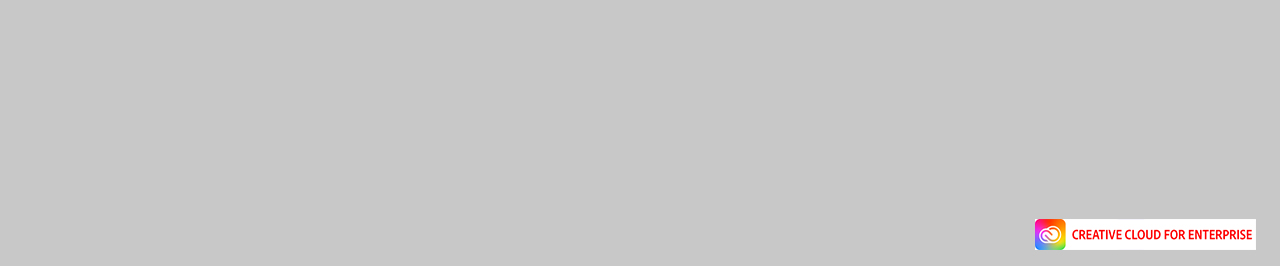
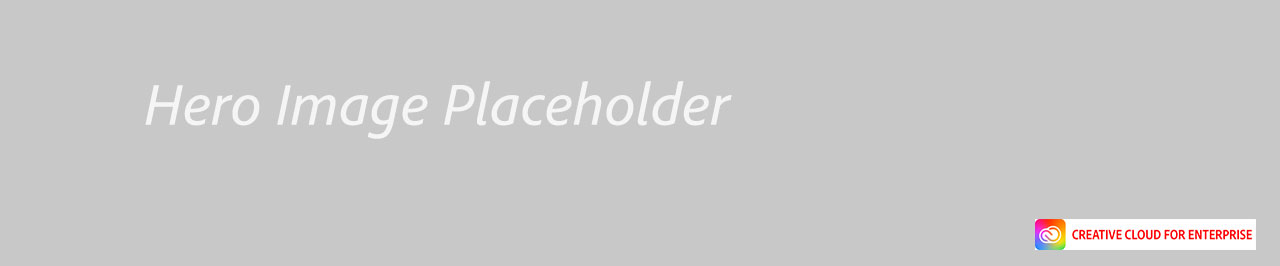
Updated images

Changed region(s): [[0.0938, 0.3008, 0.5938, 0.5414], [0.8438, 0.8421, 0.9375, 0.9023]]

diff --git a/help/max2020/desktopoverview.md b/help/max2020/desktopoverview.md
@@ -15,7 +15,7 @@ As an enterprise creative, you need to collaborate with distributed teams, estab
 <tr>
  <td>
     <a href="acrobat-sign.md">
-      <img alt="Acrobat & Adobe Sign" src="../assets//Whitespacer.png" />
+      <img alt="Acrobat & Adobe Sign" src="../assets//table_placeholder.png" />
     </a>
     <div>
     <a href="acrobat-sign.md"><strong>Acrobat & Adobe Sign</strong></a>
@@ -24,7 +24,7 @@ As an enterprise creative, you need to collaborate with distributed teams, estab
   </td>
   <td>
     <a href="dimension.md">
-      <img alt="Dimension" src="../assets//Whitespacer.png" />
+      <img alt="Dimension" src="../assets//table_placeholder.png" />
     </a>
     <div>
     <a href="dimension.md"><strong>Dimension</strong></a>
@@ -33,7 +33,7 @@ As an enterprise creative, you need to collaborate with distributed teams, estab
   </td>
   <td>
     <a href="illustrator.md">
-      <img alt="Illustrator" src="../assets/Whitespacer.png" />
+      <img alt="Illustrator" src="../assets/table_placeholder.png" />
     </a>
     <div>
     <a href="illustrator.md"><strong>Illustrator</strong></a>
@@ -44,7 +44,7 @@ As an enterprise creative, you need to collaborate with distributed teams, estab
 <tr>
  <td>
     <a href="indesign.md">
-      <img alt="InDesign" src="../assets/Whitespacer.png" />
+      <img alt="InDesign" src="../assets/table_placeholder.png" />
     </a>
     <div>
     <a href="indesign.md"><strong>InDesign</strong></a>
@@ -53,7 +53,7 @@ As an enterprise creative, you need to collaborate with distributed teams, estab
   </td>
   <td>
     <a href="photoshop.md">
-      <img alt="Photoshop" src="../assets/Whitespacer.png" />
+      <img alt="Photoshop" src="../assets/table_placeholder.png" />
     </a>
     <div>
     <a href="photoshop.md"><strong>Photoshop</strong></a>
@@ -62,7 +62,7 @@ As an enterprise creative, you need to collaborate with distributed teams, estab
   </td>
   <td>
     <a href="rush.md">
-      <img alt="Rush" src="../assets/Whitespacer.png" />
+      <img alt="Rush" src="../assets/table_placeholder.png" />
     </a>
     <div>
     <a href="rush.md"><strong>Rush</strong></a>
@@ -73,7 +73,7 @@ As an enterprise creative, you need to collaborate with distributed teams, estab
 <tr>
  <td>
     <a href="xd.md">
-      <img alt="XD" src="../assets/Whitespacer.png" />
+      <img alt="XD" src="../assets/table_placeholder.png" />
     </a>
     <div>
     <a href="xd.md"><strong>XD</strong></a>
@@ -81,12 +81,12 @@ As an enterprise creative, you need to collaborate with distributed teams, estab
     <br>
   </td>
   <td>
-    <img alt="Spacer" src="../assets/Whitespacer.png" />
+    <img alt="Spacer" src="../assets/table_placeholder.png" />
     <div>
     <br>
   </td>
   <td>
-    <img alt="Spacer" src="../assets/Whitespacer.png" />
+    <img alt="Spacer" src="../assets/table_placeholder.png" />
     <div>
     <br>
   </td>

diff --git a/help/max2020/integrations-overview.md b/help/max2020/integrations-overview.md
@@ -11,7 +11,7 @@ description: A listing of Integration tutorials.
 <tr>
  <td>
     <a href="aem.md">
-      <img alt="AEM Assets & Asset Link" src="../assets/Whitespacer.png" />
+      <img alt="AEM Assets & Asset Link" src="../assets/table_placeholder.png" />
     </a>
     <div>
     <a href="aem.md"><strong>AEM Assets & Asset Link</strong></a>
@@ -20,7 +20,7 @@ description: A listing of Integration tutorials.
   </td>
   <td>
     <a href="cclibraries.md">
-      <img alt="CC Libraries" src="../assets/Whitespacer.png" />
+      <img alt="CC Libraries" src="../assets/table_placeholder.png" />
     </a>
     <div>
     <a href="cclibraries.md"><strong>CC Libraries</strong></a>
@@ -29,7 +29,7 @@ description: A listing of Integration tutorials.
   </td>
   <td>
     <a href="indesignserver.md">
-      <img alt="InDesign Server" src="../assets/Whitespacer.png" />
+      <img alt="InDesign Server" src="../assets/table_placeholder.png" />
     </a>
     <div>
     <a href="indesignserver.md"><strong>InDesign Server</strong></a>
@@ -40,7 +40,7 @@ description: A listing of Integration tutorials.
 <tr>
   <td>
     <a href="stock.md">
-      <img alt="Adobe Stock" src="../assets/Whitespacer.png" />
+      <img alt="Adobe Stock" src="../assets/table_placeholder.png" />
     </a>
     <div>
     <a href="stock.md"><strong>Adobe Stock</strong></a>
@@ -48,12 +48,12 @@ description: A listing of Integration tutorials.
     <br>
   </td>
   <td>
-    <img alt="Spacer" src="../assets/Whitespacer.png" />
+    <img alt="Spacer" src="../assets/table_placeholder.png" />
     <div>
     <br>
   </td>
   <td>
-    <img alt="Spacer" src="../assets/Whitespacer.png" />
+    <img alt="Spacer" src="../assets/table_placeholder.png" />
     <div>
     <br>
   </td> 

diff --git a/help/max2020/mobileapps-overview.md b/help/max2020/mobileapps-overview.md
@@ -11,7 +11,7 @@ description: A listing of CCE Mobile App tutorials.
 <tr>
  <td>
     <a href="capture.md">
-      <img alt="Capture" src="../assets/Whitespacer.png" />
+      <img alt="Capture" src="../assets/table_placeholder.png" />
     </a>
     <div>
     <a href="capture.md"><strong>Capture</strong></a>
@@ -20,7 +20,7 @@ description: A listing of CCE Mobile App tutorials.
   </td>
   <td>
     <a href="fresco.md">
-      <img alt="Fresco" src="../assets/Whitespacer.png" />
+      <img alt="Fresco" src="../assets/table_placeholder.png" />
     </a>
     <div>
     <a href="fresco.md"><strong>Fresco</strong></a>
@@ -29,7 +29,7 @@ description: A listing of CCE Mobile App tutorials.
   </td>
   <td>
     <a href="illustratoripad.md">
-      <img alt="Illustrator on iPad" src="../assets/Whitespacer.png" />
+      <img alt="Illustrator on iPad" src="../assets/table_placeholder.png" />
     </a>
     <div>
     <a href="illustratoripad.md"><strong>Illustrator on iPad</strong></a>
@@ -40,7 +40,7 @@ description: A listing of CCE Mobile App tutorials.
 <tr>
   <td>
     <a href="photoshopipad.md">
-      <img alt="Photoshop on iPad" src="../assets/Whitespacer.png" />
+      <img alt="Photoshop on iPad" src="../assets/table_placeholder.png" />
     </a>
     <div>
     <a href="photoshopipad.md"><strong>Photoshop on iPad</strong></a>
@@ -48,12 +48,12 @@ description: A listing of CCE Mobile App tutorials.
     <br>
   </td>
   <td>
-    <img alt="Spacer" src="../assets/Whitespacer.png" />
+    <img alt="Spacer" src="../assets/table_placeholder.png" />
     <div>
     <br>
   </td> 
   <td>
-    <img alt="Spacer" src="../assets/Whitespacer.png" />
+    <img alt="Spacer" src="../assets/table_placeholder.png" />
     <div>
     <br>
   </td> 

diff --git a/help/max2020/acrobat-sign.md b/help/max2020/acrobat-sign.md
@@ -14,21 +14,21 @@ Insert product messaging copy here
 <table>
 <tr>
  <td>
-    <img alt="Tutorial 1" src="../assets/Whitespacer.png" />
+    <img alt="Tutorial 1" src="../assets/table_placeholder.png" />
     <div>
     <a href="acrobat-sign.md#tutorial1"><strong>Tutorial 1</strong></a>
     </div>
     <br>
   </td>
   <td>
-    <img alt="Tutorial 2" src="../assets/Whitespacer.png" />
+    <img alt="Tutorial 2" src="../assets/table_placeholder.png" />
     <div>
     <a href="acrobat-sign.md#tutorial2"><strong>Tutorial 2</strong></a>
     </div>
     <br>
   </td>
   <td>
-   <img alt="Tutorial 3" src="../assets/Whitespacer.png" />
+   <img alt="Tutorial 3" src="../assets/table_placeholder.png" />
     <div>
     <a href="acrobat-sign.md#tutorial3"><strong>Tutorial 3</strong></a>
     </div>
@@ -39,6 +39,24 @@ Insert product messaging copy here
 
 ## Tutorial 1 {#tutorial1}
 
+![Video Hero Placeholder Image](../assets/table_placeholder.png)
+
+### Details
+
+Insert tutorial description here
+
+In this tutorial, you will learn how to:
+* Feature 1
+* Feature 2
+* Feature 3
+* Feature 4
+
+Presented by: SC Name
+
 ## Tutorial 2 {#tutorial2}
 
+![Video Hero Placeholder Image](../assets/table_placeholder.png)
+
 ## Tutorial 3 {#tutorial3}
+
+![Video Hero Placeholder Image](../assets/table_placeholder.png)
